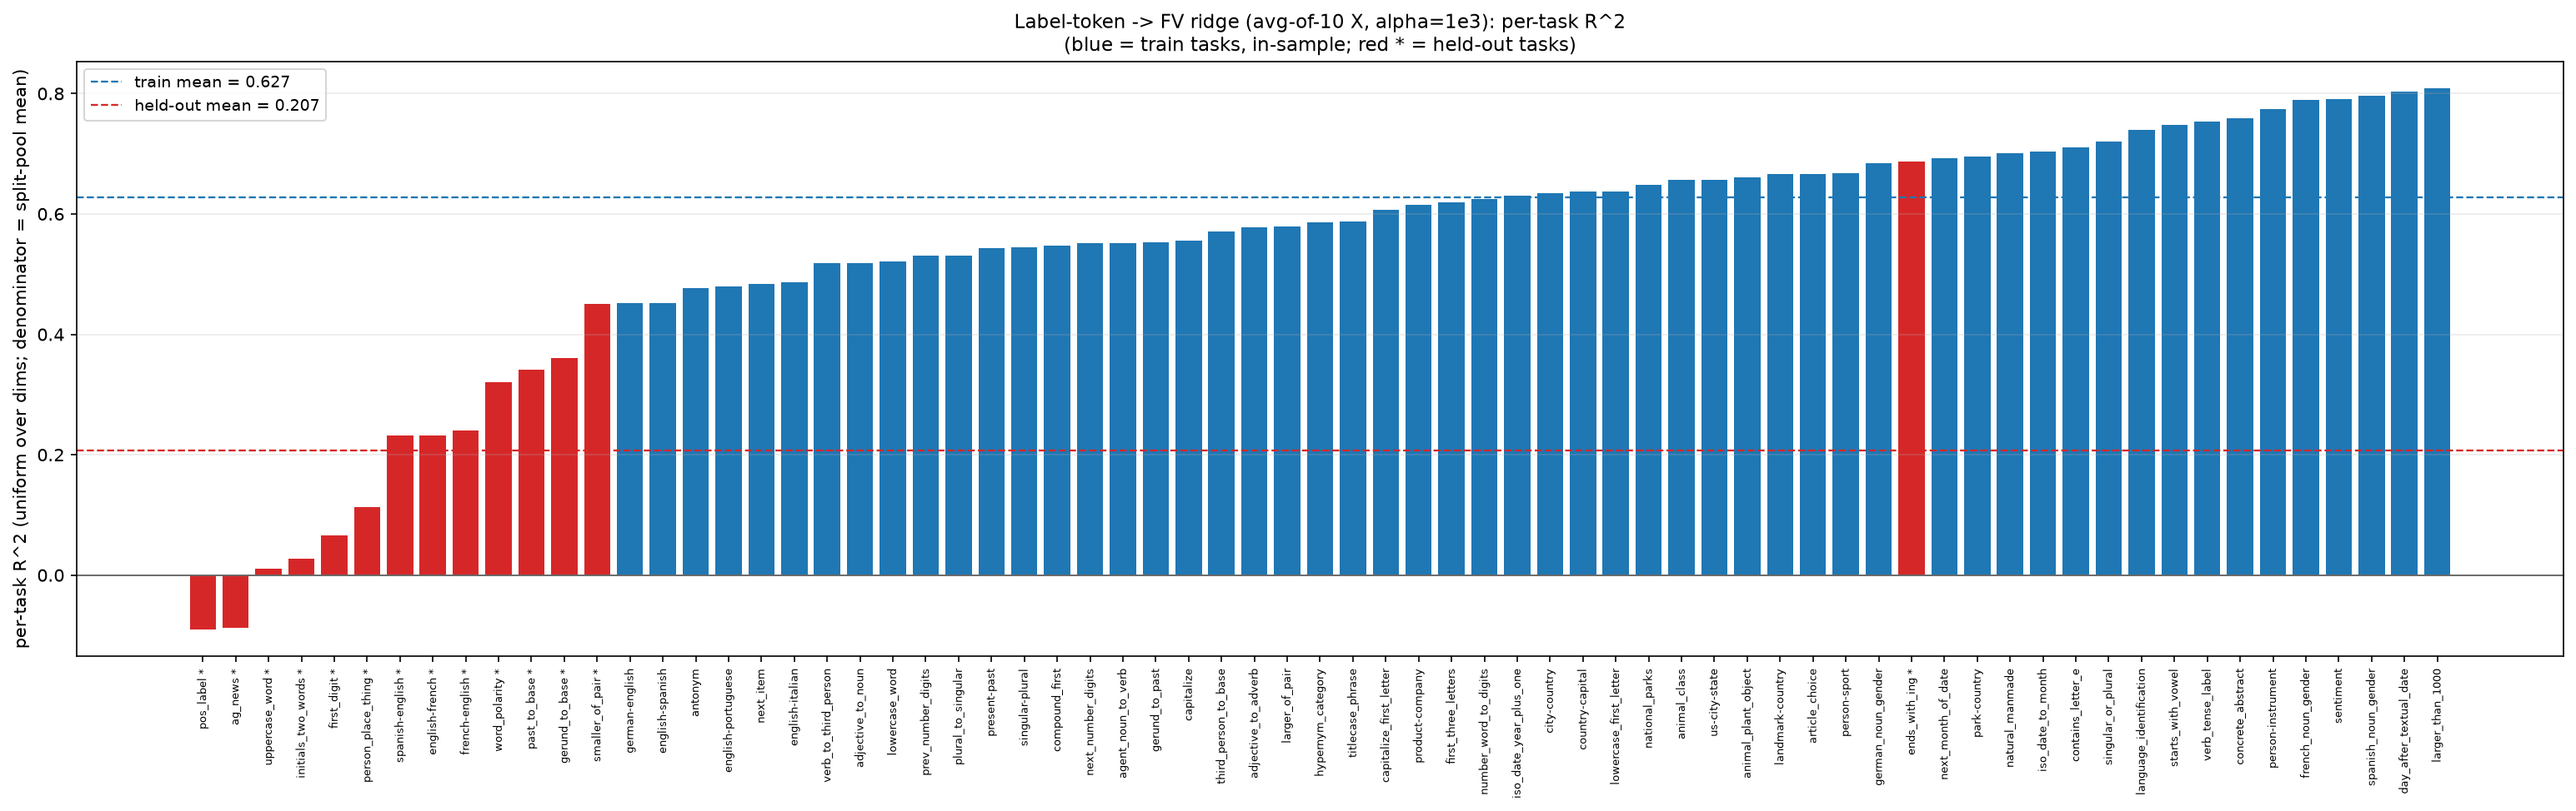
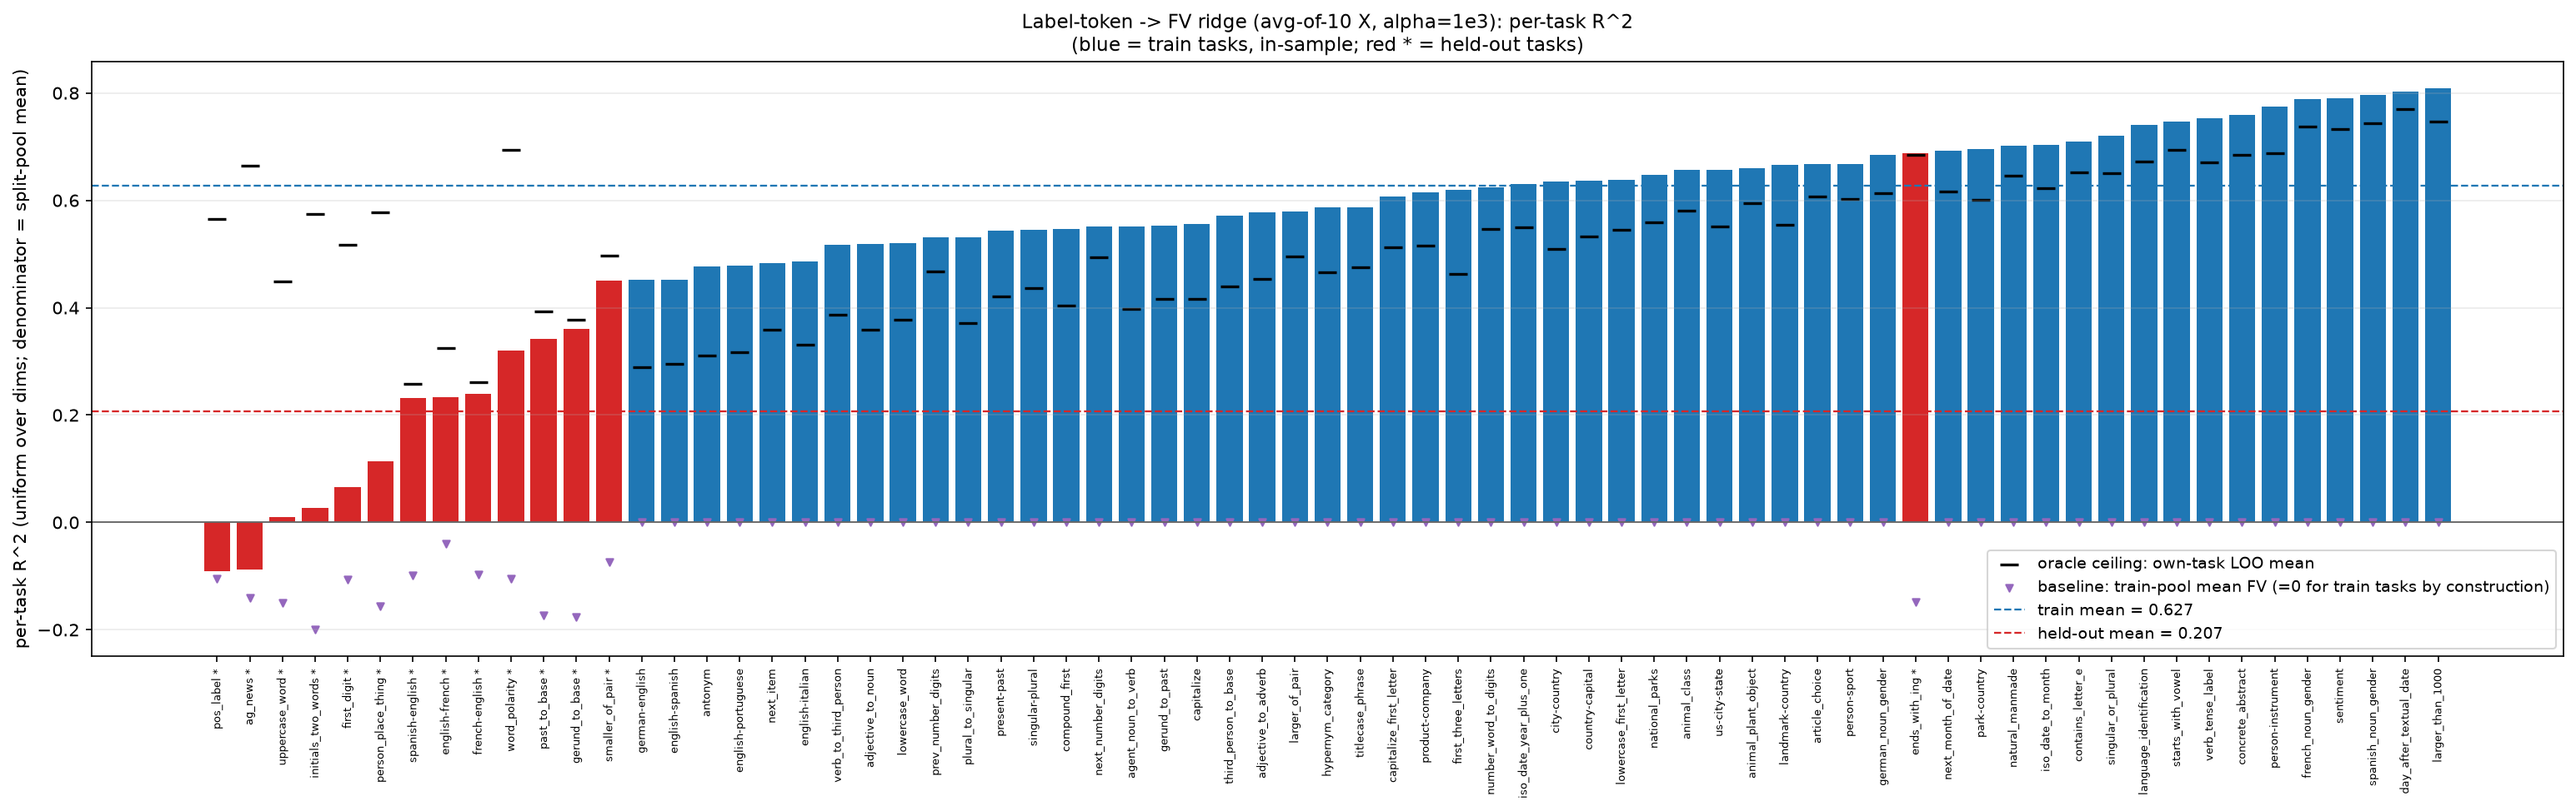
Add train-pool-mean baseline and per-task oracle ceiling to the R^2-by-task chart

diff --git a/src/eval_scripts/plot_labeltoken_ridge_r2_by_task.py b/src/eval_scripts/plot_labeltoken_ridge_r2_by_task.py
@@ -62,32 +62,49 @@ def main():
     pool_mean = {g: Y[g].mean(dim=0) for g in Y}   # split-pool reference mean
     pool_tot = {g: ((Y[g] - pool_mean[g]) ** 2).sum(dim=0) for g in Y}
 
+    def r2_of(pred, yt, g):
+        tot = ((yt - pool_mean[g]) ** 2).sum(dim=0)
+        ok = tot > 0
+        return float((1 - ((yt - pred) ** 2).sum(dim=0)[ok] / tot[ok]).mean())
+
     rows = []
     for t in train_tasks + test_tasks:
         g, s, e = sl[t]
-        resid = ((Y[g][s:e] - P[g][s:e]) ** 2).sum(dim=0)
-        # per-dim total vs the SPLIT-POOL mean, scaled to this task's row count
-        tot = ((Y[g][s:e] - pool_mean[g]) ** 2).sum(dim=0)
-        ok = tot > 0
-        r2 = float((1 - resid[ok] / tot[ok]).mean())
-        rows.append((t, g, r2))
+        yt = Y[g][s:e]
+        r2 = r2_of(P[g][s:e], yt, g)
+        # cross-pool baseline: constant TRAIN-pool mean FV as the prediction
+        # (for train tasks this equals the split-pool mean -> exactly 0 by construction)
+        r2_base = r2_of(pool_mean["train"].expand_as(yt), yt, g)
+        # oracle ceiling: own-task LOO mean
+        n = len(yt)
+        loo = (yt.sum(dim=0, keepdim=True) - yt) / (n - 1)
+        r2_orc = r2_of(loo, yt, g)
+        rows.append((t, g, r2, r2_base, r2_orc))
 
     OUT.mkdir(parents=True, exist_ok=True)
     with open(OUT / "r2_by_task.csv", "w", newline="") as f:
         w = csv.writer(f)
-        w.writerow(["task", "split", "r2_uniform_poolref"])
-        w.writerows([(t, g, round(r, 4)) for t, g, r in rows])
+        w.writerow(["task", "split", "r2_ridge", "r2_trainpoolmean_baseline",
+                    "r2_owntaskmean_oracle"])
+        w.writerows([(t, g, round(r, 4), round(b, 4), round(o, 4))
+                     for t, g, r, b, o in rows])
 
     rows.sort(key=lambda r: r[2])
-    labels = [t + (" *" if g == "heldout" else "") for t, g, _ in rows]
-    vals = [r for _, _, r in rows]
-    cols = ["tab:red" if g == "heldout" else "tab:blue" for _, g, _ in rows]
+    labels = [t + (" *" if g == "heldout" else "") for t, g, *_ in rows]
+    vals = [r[2] for r in rows]
+    bases = [r[3] for r in rows]
+    orcs = [r[4] for r in rows]
+    cols = ["tab:red" if r[1] == "heldout" else "tab:blue" for r in rows]
     x = np.arange(len(rows))
     fig, ax = plt.subplots(figsize=(max(15, 0.3 * len(rows)), 6.6), dpi=150)
     ax.bar(x, vals, color=cols)
+    ax.scatter(x, orcs, marker="_", s=110, color="black", lw=1.6,
+               label="oracle ceiling: own-task LOO mean")
+    ax.scatter(x, bases, marker="v", s=16, color="tab:purple",
+               label="baseline: train-pool mean FV (=0 for train tasks by construction)")
     ax.axhline(0, color="0.4", lw=0.9)
-    tr = [r for _, g, r in rows if g == "train"]
-    te = [r for _, g, r in rows if g == "heldout"]
+    tr = [r[2] for r in rows if r[1] == "train"]
+    te = [r[2] for r in rows if r[1] == "heldout"]
     ax.axhline(float(np.mean(tr)), color="tab:blue", ls="--", lw=1.1,
                label=f"train mean = {np.mean(tr):.3f}")
     ax.axhline(float(np.mean(te)), color="tab:red", ls="--", lw=1.1,

diff --git a/WORKLOG.md b/WORKLOG.md
@@ -6078,3 +6078,18 @@ ends_with_ing 0.69 — the best heldout task, sitting mid-pack among train tasks
 classification/symbolic tasks ~0 or negative (pos_label -0.09, ag_news -0.08,
 uppercase_word 0.01, initials_two_words 0.03, first_digit 0.06) — matching the centroid
 cos-similarity pattern in error_decomposition.txt. Outputs: r2_by_task.{png,csv}.
+
+### Addendum 4 — baselines added to the per-task R^2 chart
+
+Per user: added (a) the constant TRAIN-pool-mean-FV predictor baseline (purple markers;
+exactly 0 for train tasks by construction under the split-pool denominator; heldout mean
+-0.126) and (b) the per-task oracle ceiling (own-task LOO mean, black dashes; heldout mean
++0.488). Heldout comparison: ridge +0.207 beats the baseline on 14/14 tasks; on the
+morphology/translation group the ridge sits AT the oracle (ends_with_ing 0.687 vs 0.685,
+gerund_to_base 0.360 vs 0.378, past_to_base 0.341 vs 0.393, smaller_of_pair 0.450 vs
+0.497, language pairs ~0.23-0.24 vs ~0.26-0.32) — i.e. transfer is near-perfect there —
+while the classification group (pos_label, ag_news, uppercase_word, initials_two_words,
+first_digit, person_place_thing) has large oracle headroom (0.45-0.66) that the ridge
+leaves untouched. User's read confirmed: task-level overfitting/coverage — but note the
+heldout tasks are NOT intrinsically the worst (their oracles are ordinary); the map just
+wasn't taught their region.
